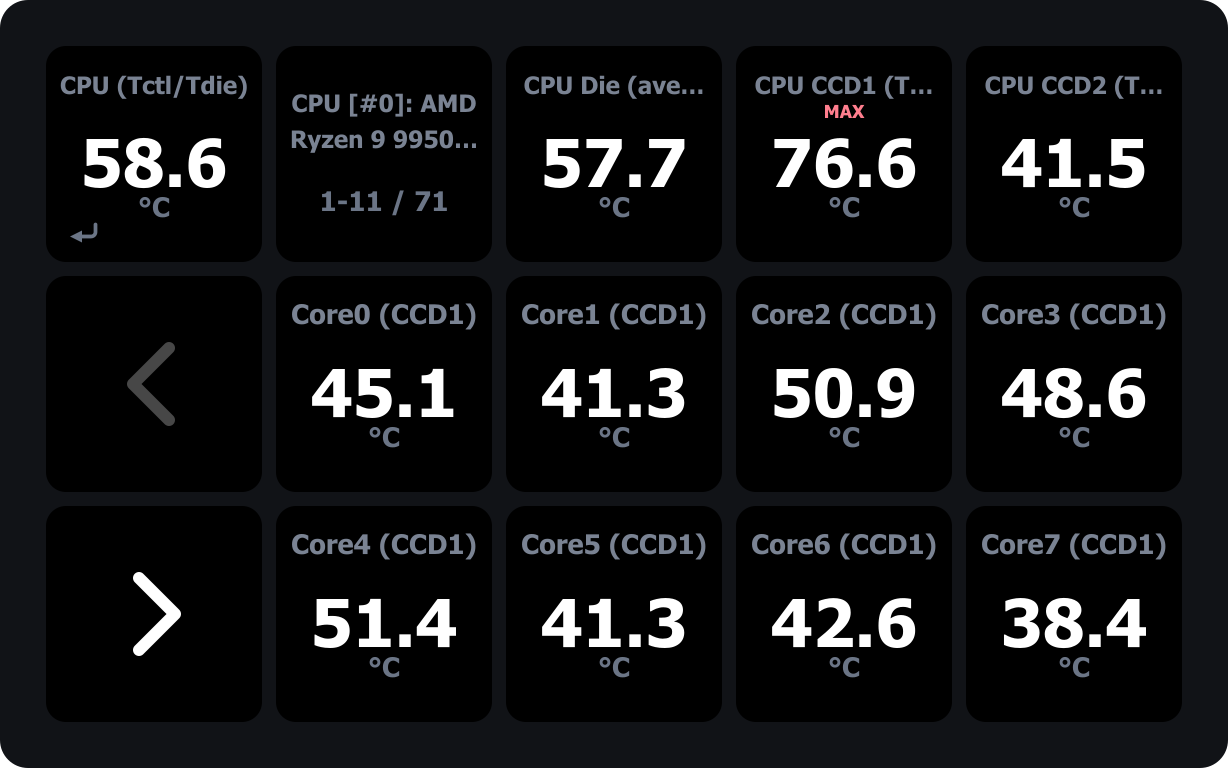
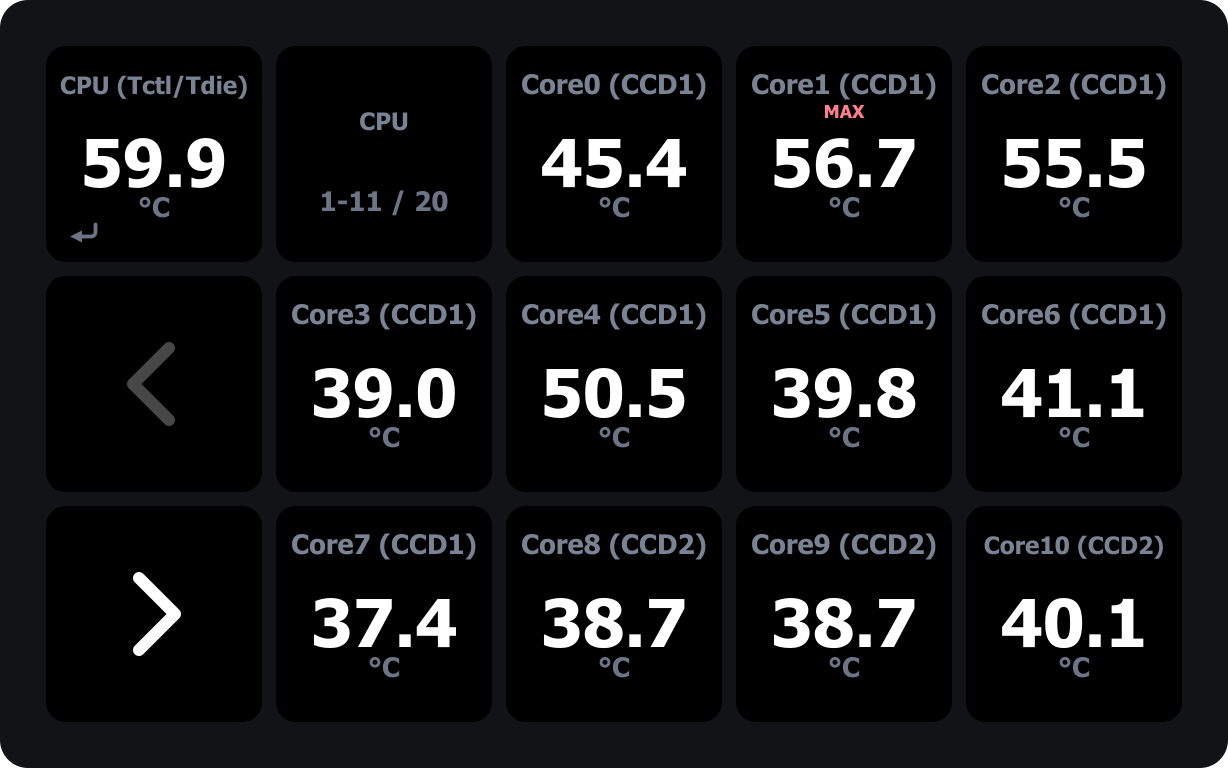
docs: the README detail board shows a filter page whose tiles read whole
The whole-sensor page drew HWiNFO's long names cut (CPU Die (ave...,
CPU CCD1 (T...). The README board now renders a (CCD filter page, the
per-core temperatures, under a title tile set to CPU. The docs page
keeps the default whole-sensor view.

diff --git a/README.md b/README.md
@@ -92,7 +92,7 @@ Seven themes, set per key or once for the whole deck.
 
 A key press can open a full page of readings, then return.
 
-<img src=".github/readme/details.png" width="100%" alt="A detail page listing every reading of one HWiNFO sensor, with a Back key top left">
+<img src=".github/readme/details.png" width="100%" alt="A detail page of the CPU's per-core temperatures, picked by a filter, with a Back key top left">
 
 - Show every reading from the pressed sensor, a list you build, or a filter such as `*gpu*fan*`.
 - Pack up to four readings per tile and page through long sources.
